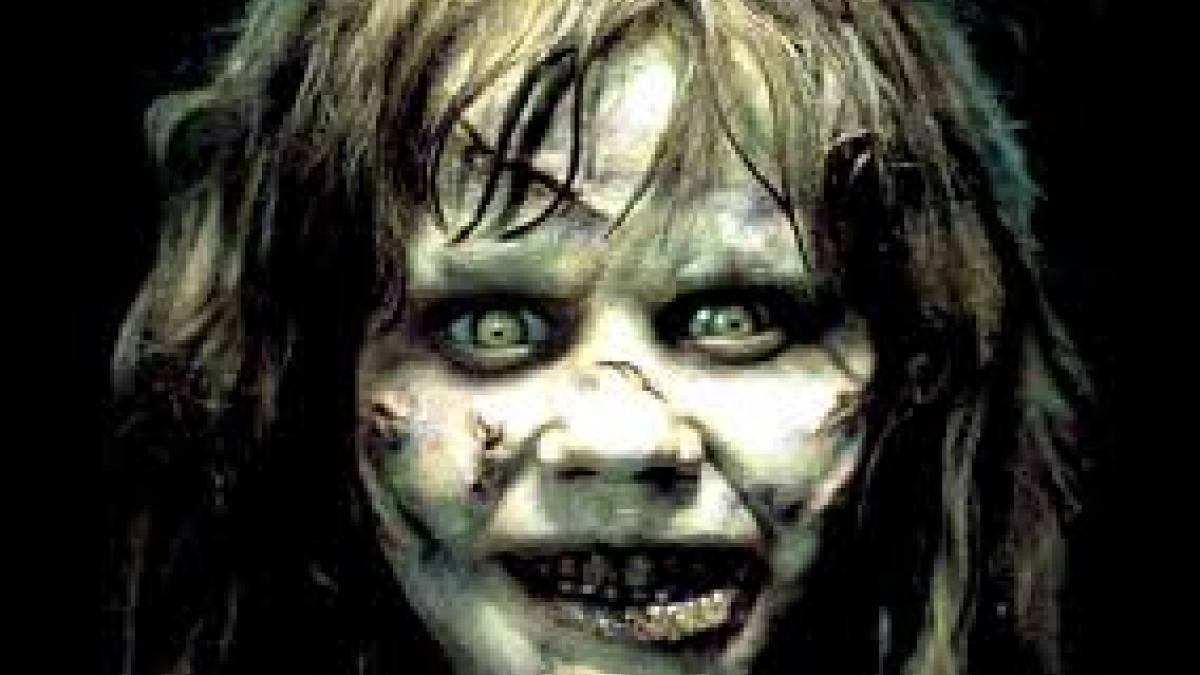
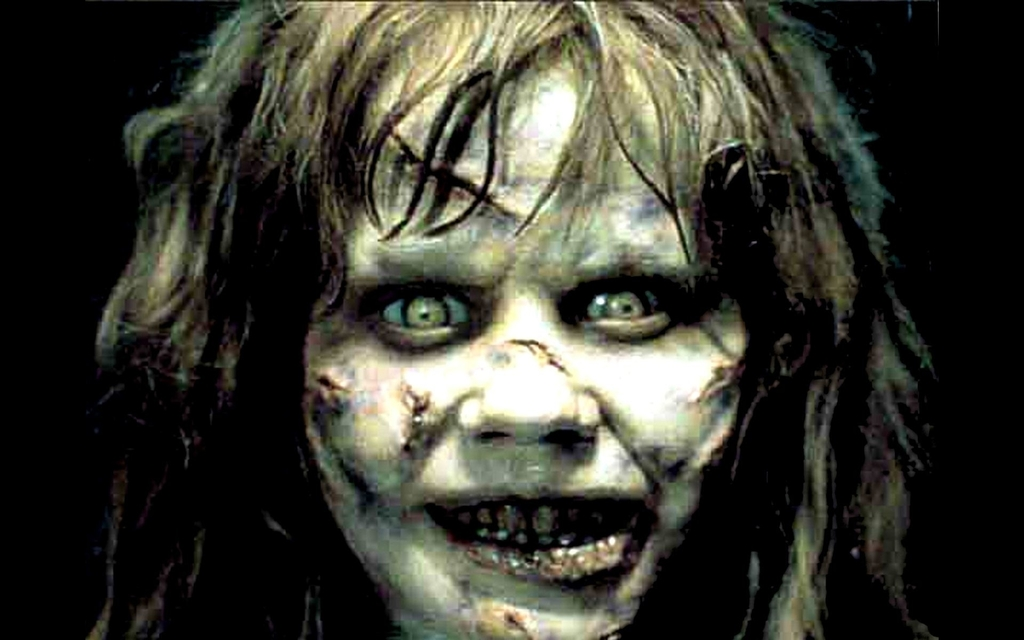
8. Congratulations dialog added

diff --git a/GamePanel.java b/GamePanel.java
@@ -18,24 +18,30 @@ import resources.ResourceLoader;
 public class GamePanel extends JPanel {
 	//Number of the current level
 	int levelNumber; 
+	
 	//An array containing the maze of the current level 
 	int[][] currentLevel; 
+	
 	//side of square 
 	int a;
-	//The place where the user starts - [39][9]
-	int iStart;
-	int jStart;
-	//After the start square is clicked,
-	//we need to save the last position and color it in dark blue  
+	
+	//The place in the array where the user starts (39,9)
+	final int iStart;
+	final int jStart;
+	
+	//Last position where the user was
+	//We need it so we can color the last position back to cyan 
 	int lastI, lastJ;
 	
+	//This variable controls the mouseMoved() function
+	//so that only when the mouse is pressed the movements are registered  
 	boolean mousePressed; 
 	
 	
-	GamePanel(){
+	GamePanel() throws GameWonException{
 		this.setSize(new Dimension(400,400));
 		levelNumber = 1; 
-		//side of a square 
+		//side of a square, there will be a total of 2500 squares
 		a = this.getWidth() / 50; 
 		iStart = 39;
 		jStart = 9;
@@ -70,7 +76,8 @@ public class GamePanel extends JPanel {
 						@Override
 						public void mouseMoved(MouseEvent arg0) {
 							if(!mousePressed) return; 
-							//Delete last position 
+							try{
+							//Color last position back to cyan  
 							currentLevel[lastI][lastJ] = 1; 
 							//Coordinates in the array of square to which mouse is moved 
 							int iMoved = arg0.getY() / a;
@@ -88,21 +95,34 @@ public class GamePanel extends JPanel {
 							}
 							//Goal, proceed to next level 
 							else if (currentLevel[iMoved][jMoved] == 2){
-								if(levelNumber <= 5){ 
+								if(levelNumber < 5){ 
+									//Continue to next level 
 									levelNumber++;
-									iStart = 39;
-									jStart = 9;
+									//Set the last coordinates to the start 
 									lastI = 39;
 									lastJ = 9; 
 									initLevel();
 									repaint();
+									//Stop following the mouse
 									mousePressed = false; 
 									return; 
 								}
-							}						
+								//If the level is >= 5, the game was won
+								//(Although the player isn't supposed to win)
+								//That's why we will continue to follow the mouse
+								//After the user closes the congratulation tab, 
+								//the scary image will appear because the mouse coordinates changed
+								else{
+									throw new GameWonException();
+								}
+							}
+							//Move the blue square to the position the user chose 
 							currentLevel[iMoved][jMoved] = 3;
 							repaint();
-							
+							}
+							catch(GameWonException e){
+								System.out.println("User won the game!");
+							}
 						}
 						
 					});
@@ -134,6 +154,7 @@ public class GamePanel extends JPanel {
 	public void initLevel() {
 		if(levelNumber <= 5) {
 			InputStream level = null;
+			//Load level from file 
 			try{
 			switch(levelNumber){
 			case 1: level = ResourceLoader.loadFileAsInputStream("level1.txt"); break;
@@ -142,10 +163,12 @@ public class GamePanel extends JPanel {
 			case 4: level = ResourceLoader.loadFileAsInputStream("level4.txt"); break;
 			case 5: level = ResourceLoader.loadFileAsInputStream("level5.txt"); break;
 			}
+			//Create array
 			currentLevel = new int [50][50];
 			int i = 0, j = 0;
 			
 			while(true){
+				// - '0' so we can get int value of character (ASCII table) 
 				int val = level.read() - '0'; 
 				if(val >= 0 ){
 					currentLevel[i][j] = val;

diff --git a/StartFrame.java b/StartFrame.java
@@ -49,9 +49,15 @@ public class StartFrame extends JFrame {
 			@Override
 			public void actionPerformed(ActionEvent e) {
 				setVisible(false); 
-				GameFrame game = new GameFrame();
-				Dimension dim = Toolkit.getDefaultToolkit().getScreenSize();
-				game.setLocation(dim.width/2-game.getSize().width/2, dim.height/2-game.getSize().height/2);
+				GameFrame game;
+				try {
+					game = new GameFrame();
+					Dimension dim = Toolkit.getDefaultToolkit().getScreenSize();
+					game.setLocation(dim.width/2-game.getSize().width/2, dim.height/2-game.getSize().height/2);
+				} catch (GameWonException e1) {
+					// TODO Auto-generated catch block
+					e1.printStackTrace();
+				}
 			}
 
 			

diff --git a/ScaryFrame.java b/ScaryFrame.java
@@ -1,4 +1,3 @@
-
 package main;
 
 import java.awt.Dimension;
@@ -17,7 +16,7 @@ public class ScaryFrame extends JFrame{
 		ResourceLoader.PlaySound("possessed.wav");
 		Dimension dim = Toolkit.getDefaultToolkit().getScreenSize();
 		this.setLocation(dim.width/2-this.getSize().width/2, dim.height/2-this.getSize().height/2);
-		this.setPreferredSize(new Dimension(1024, 768));
+		this.setPreferredSize(new Dimension(1024, 640));
 		this.setDefaultCloseOperation(JFrame.EXIT_ON_CLOSE);
 		this.setLocationRelativeTo(null);
 		this.setVisible(true);

diff --git a/GameWonException.java b/GameWonException.java
@@ -7,12 +7,7 @@ import javax.swing.JOptionPane;
 
 public class GameWonException extends Exception {
 	public GameWonException () {
-		JFrame frame = new JFrame();
-		frame.setPreferredSize(new Dimension(1024, 768));
-		frame.setDefaultCloseOperation(JFrame.EXIT_ON_CLOSE);
-		frame.setLocationRelativeTo(null);
-		frame.setVisible(true);
-		frame.pack();
-		JOptionPane.showMessageDialog(frame, "You won the game!");
+	    JFrame f=new JFrame();  
+	    JOptionPane.showMessageDialog(f,"You won the game!");  
 	}
 }

diff --git a/GameFrame.java b/GameFrame.java
@@ -17,7 +17,7 @@ public class GameFrame extends JFrame {
 	JPanel mainPanel;
 	GridBagConstraints c = new GridBagConstraints();
 	
-	GameFrame(){
+	GameFrame() throws GameWonException{
 		mainPanel = new GamePanel();
 		mainPanel.setLayout(new GridBagLayout());
 		mainPanel.setPreferredSize(new Dimension(400, 400));
